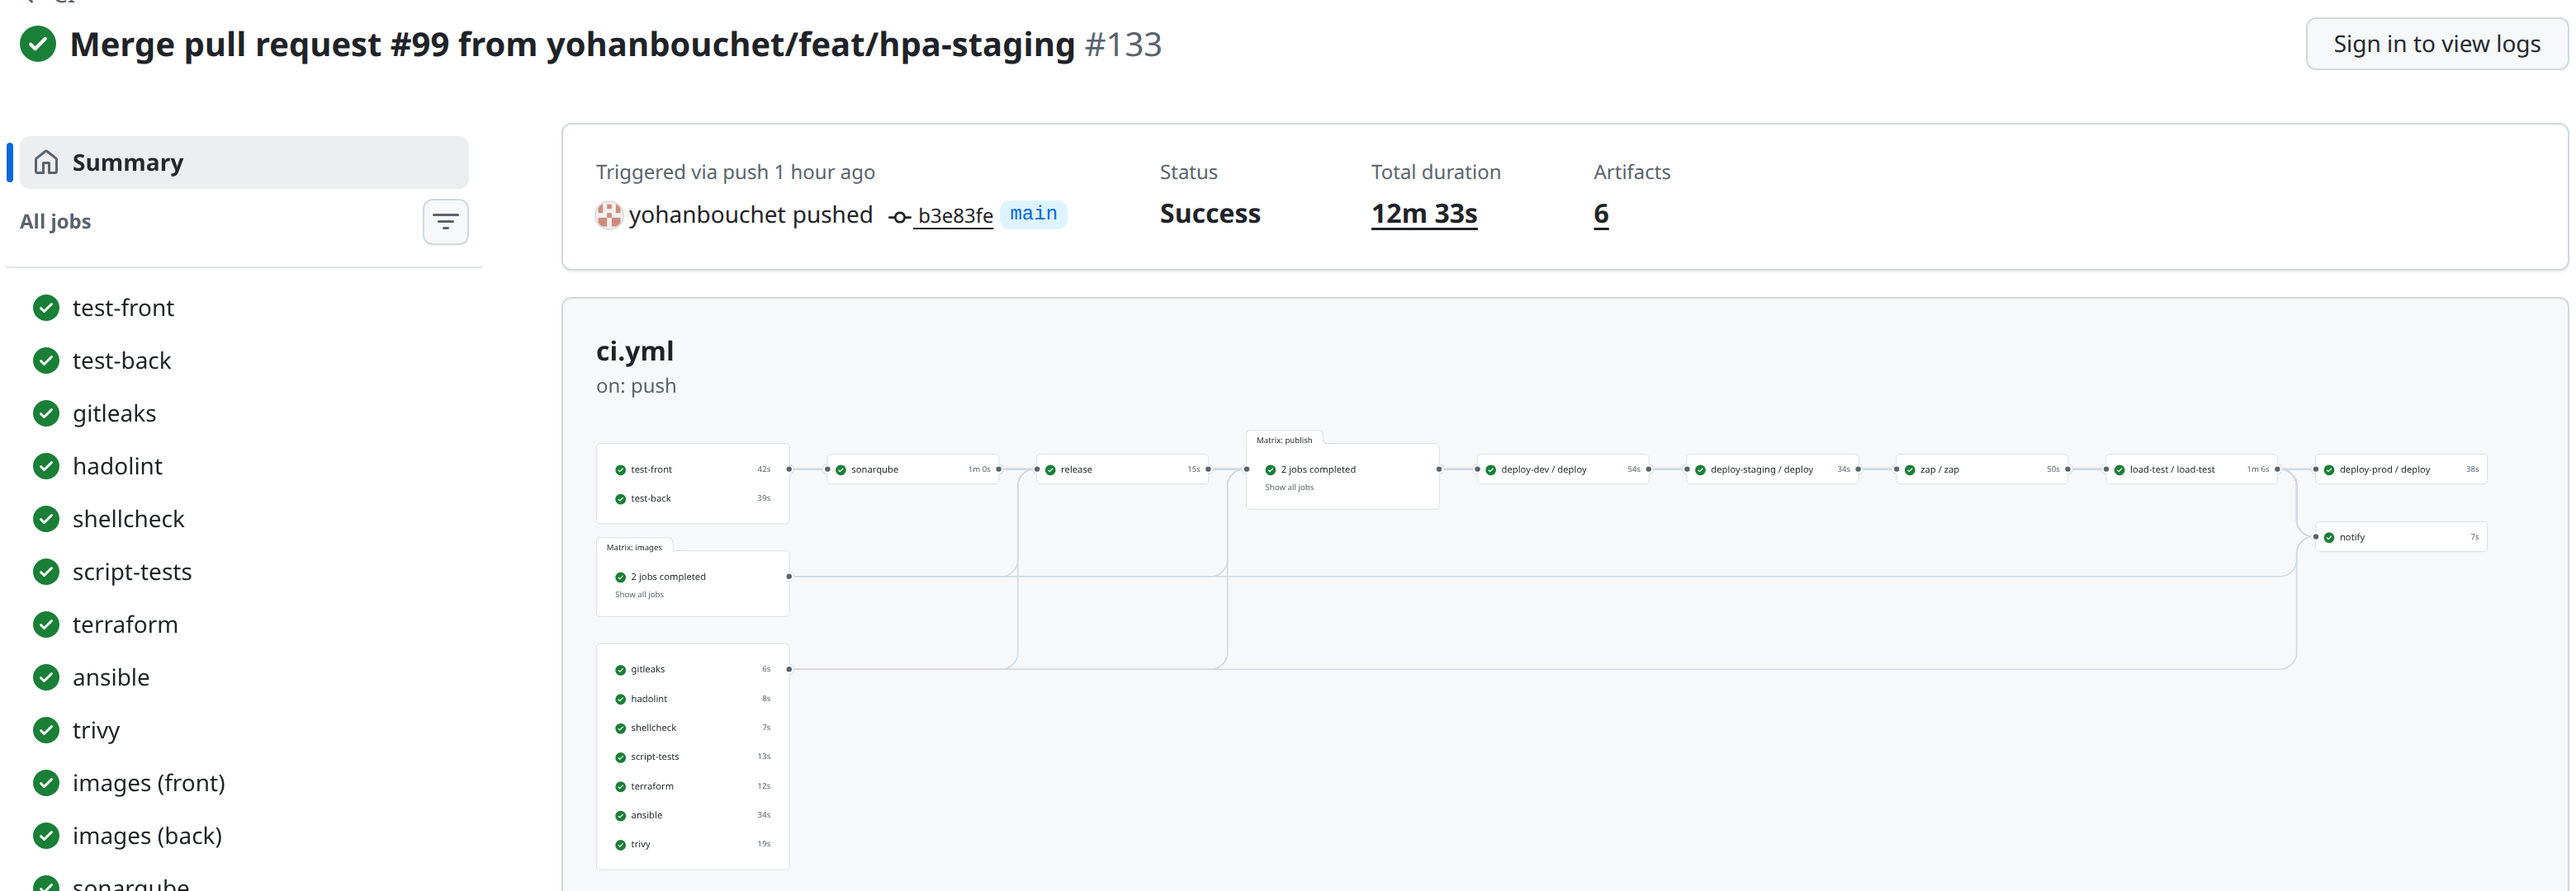
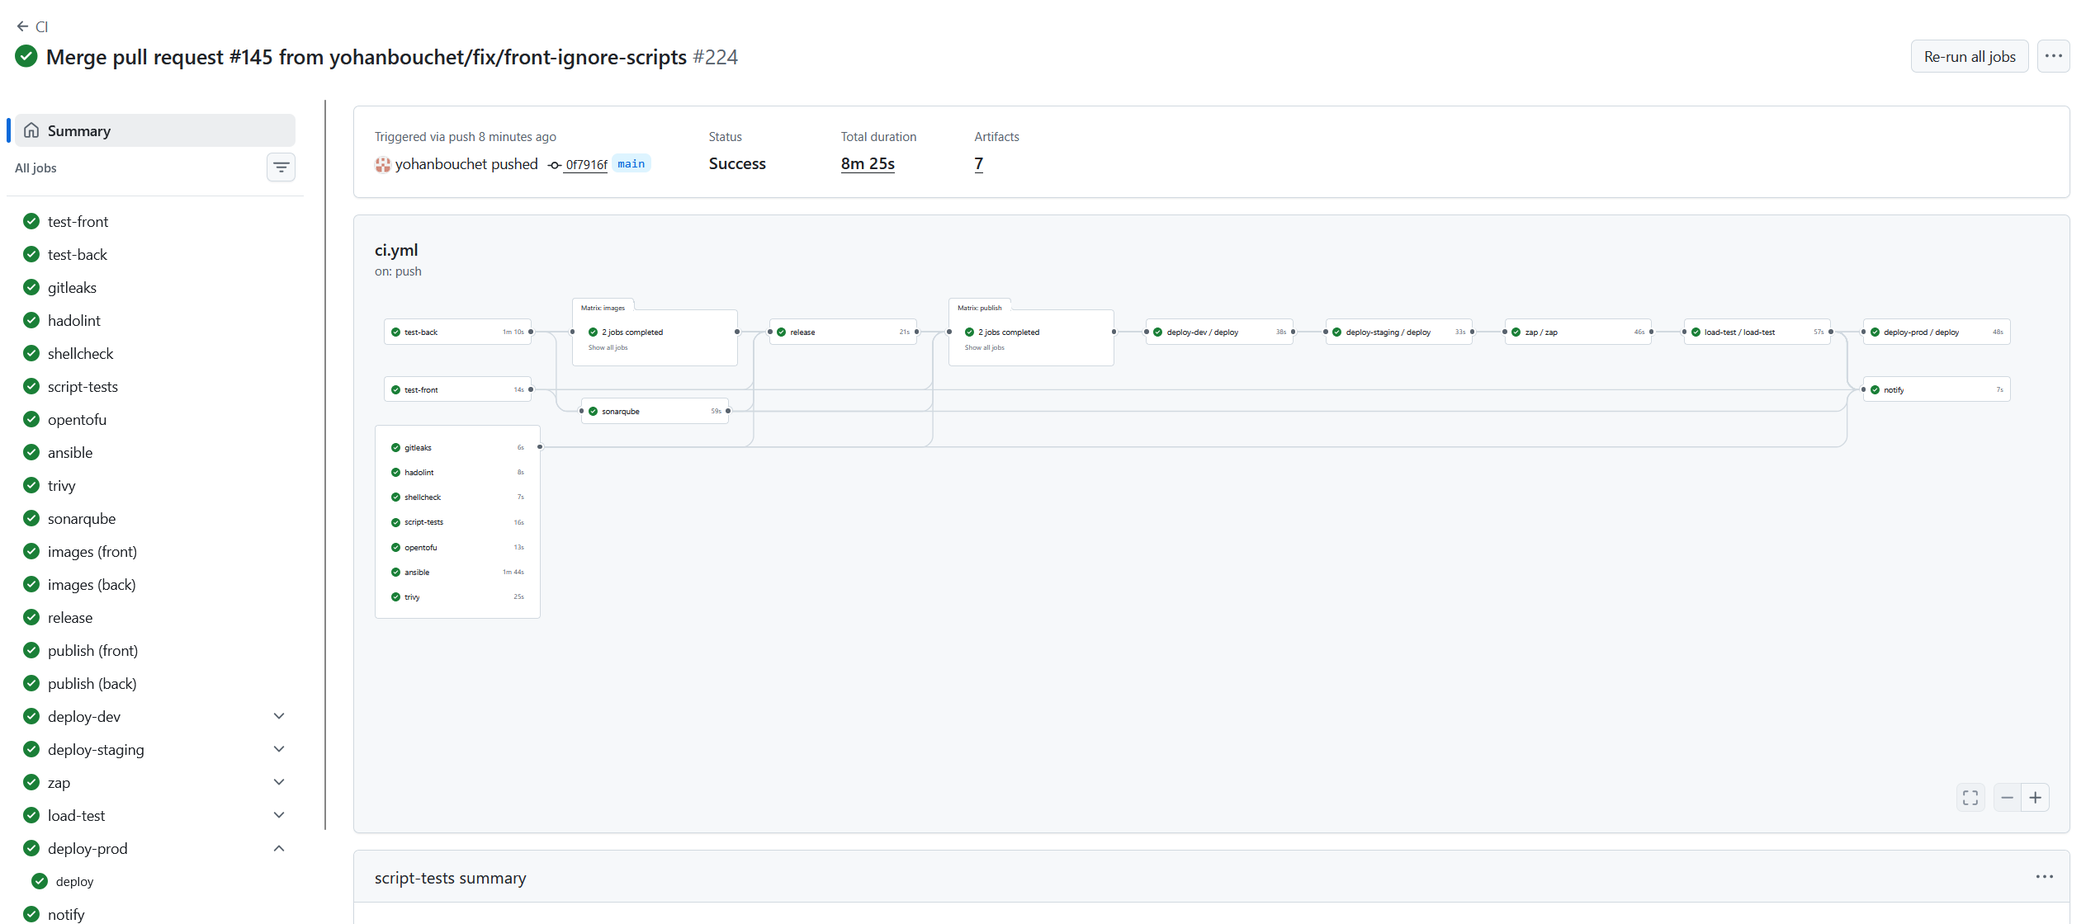
docs(rapport): pipeline de v1.9.1 et failles apparues après construction
- capture du pipeline remplacée par l'exécution complète de v1.9.1
  (11/11, première mise en prod par un accès court d'OpenBao) ; durées
  remesurées par l'API : 6,7 min automatiques, prod 0,8 min
- section 5.1 : 2 failles hautes apparues le 11/11 dans le front v1.9.0
  en prod, corrigées par v1.9.1 (0 faille, front et back)

diff --git a/docs/04-rapport-performance.md b/docs/04-rapport-performance.md
@@ -6,7 +6,7 @@
 | Client  | Orion (destinataires : Maria, CTO, et les équipes Dev et Ops) |
 | Auteur  | Yohan Bouchet |
 | Version | 1.3 (recommandations 26 à 30 ; 1.2 du 10/11, 1.1 du 09/11, 1.0 du 07/11) |
-| Date    | 11/11/2026 : état de la production au 10/11 (v1.9.0, en production depuis le 09/11) ; mesures du 06/11 au 10/11 |
+| Date    | 11/11/2026 : état de la production au 11/11 (v1.9.1, en production depuis le 11/11) ; mesures du 06/11 au 11/11 |
 
 **Accessibilité** : titres hiérarchisés, tableaux avec ligne d'en-tête,
 chaque capture d'écran munie d'un texte de remplacement qui décrit ce
@@ -24,7 +24,7 @@ elle-même.
 
 | Ce qui compte pour Orion | Avant (27-28/10) | Après (06-10/11) |
 | --- | --- | --- |
-| Failles connues dans les images livrées | 95 dans l'image back, dont 8 critiques | **0**, toutes gravités confondues (v1.9.0) |
+| Failles connues dans les images livrées | 95 dans l'image back, dont 8 critiques | **0**, toutes gravités confondues (v1.9.1, analysée le 11/11 ; voir 5.1) |
 | Contrôles automatiques sur chaque modification | 4 tâches (tests et construction), rien de bloquant sur la qualité ou la sécurité | **12** (tests, qualité, failles, secrets, infrastructure) |
 | Couverture du code par les tests | non mesurée | **82,9 %**, mesurée à chaque modification |
 | Compte utilisé par l'API dans la base | superutilisateur | **compte limité** à la lecture et à l'écriture des lignes |
@@ -169,18 +169,19 @@ production (workflow *DORA metrics*).
 | --- | --- | --- |
 | Contrôles sur chaque PR | 4 tâches : tests et construction | **12 tâches en parallèle** : tests back et front, SonarQube, Trivy, hadolint, ShellCheck, gitleaks, tests des scripts, OpenTofu (2 dossiers), Ansible (dont Molecule depuis le 10/11), construction des 2 images |
 | Durée | 4,67 min | **2,2 min** (médiane de 47 PR réussies du 07 au 10/11 ; 1,9 min le 06/11) ; avec Molecule (10/11), 2,0 et 2,4 min sur les 2 premières PR : le job Ansible (1,8 à 1,9 min) est devenu le plus long |
-| Ce qui se passe après la fusion | rien | version, publication des images, déploiement dev puis staging, test d'intrusion ZAP, test de fumée k6, notification : **6,6 min** (exécution du 06/11, 17:01), puis production en 0,6 min après approbation |
+| Ce qui se passe après la fusion | rien | version, publication des images, déploiement dev puis staging, test d'intrusion ZAP, test de fumée k6, notification : **6,7 min** (v1.9.1, 11/11 ; 6,6 min le 06/11), puis production en 0,8 min après approbation, par un accès court d'OpenBao |
 
 La durée totale affichée par GitHub sur la capture ci-dessous
-(12 min 33 s) comprend l'attente de l'approbation humaine avant la
-production : les étapes automatiques, elles, durent 6,6 min puis 0,6 min.
+(8 min 25 s, version v1.9.1 du 11/11) comprend 0,8 min d'attente de
+l'approbation humaine avant la production : les étapes automatiques,
+elles, durent 6,7 min puis 0,8 min.
 
 **Précaution de lecture** : la mesure « avant » a été faite sur un poste,
 cache vide ; la mesure « après » vient des runners de la CI, avec cache.
 Le gain s'explique surtout par l'exécution en parallèle et le cache : la
 chaîne contrôle **3 fois plus de choses en 2 fois moins de temps**.
 
-![Graphe d'une exécution du pipeline sur main : contrôles en parallèle, puis release, publication, déploiements dev et staging, ZAP, test de charge et production](rapport-performance/pipeline.png)
+![Graphe de l'exécution du pipeline sur main qui a livré v1.9.1 le 11/11, toutes les étapes réussies en 8 min 25 s : 9 contrôles en parallèle, construction des 2 images, SonarQube, release, publication des 2 images, déploiements dev et staging, ZAP, test de charge, production après approbation, notification](rapport-performance/pipeline.png)
 
 ### 3.3 Releases
 
@@ -263,10 +264,10 @@ SonarQube, analyse du Java moins précise) est levée depuis le 08/11
 
 ### 5.1 Gains
 
-| Source | Avant (27-28/10) | Après (08-10/11) |
+| Source | Avant (27-28/10) | Après (08-11/11) |
 | --- | --- | --- |
 | Trivy, image back | 95 failles : 8 critiques, 33 hautes | **0**, toutes gravités confondues (v1.9.0, analysée le 10/11) |
-| Trivy, image front | 10 failles : 2 hautes | **0**, toutes gravités confondues (v1.9.0, analysée le 10/11) |
+| Trivy, image front | 10 failles : 2 hautes | **0**, toutes gravités confondues (v1.9.0, analysée le 10/11 ; le 11/11, 2 hautes publiées depuis dans libxslt, corrigées par v1.9.1, 0 faille) |
 | npm audit, toutes les dépendances du front | 91 : 5 critiques, 52 hautes | **0** (56 le 07/11) |
 | npm audit, dépendances livrées au navigateur | non distingué | **0** (8 le 07/11, dont 4 hautes) |
 | Failles acceptées par exception (`.trivyignore`) | aucun contrôle | **0** (42 le 07/11 : Angular 17 et l'outil de publication des versions) |
@@ -281,6 +282,14 @@ Angular 22 (08/11, PR #114) a supprimé toutes les failles de
 `npm audit`, y compris dans les outils de construction, et une version
 corrigée de l'outil de publication a permis de retirer les 42 exceptions
 de `.trivyignore`.
+
+**Une image saine ne le reste pas** : le 11/11, l'image du front en
+production (v1.9.0, 0 faille le 10/11) avait 2 failles hautes dans
+libxslt, publiées et corrigées par Alpine entre-temps. Un scan fait à
+la main l'a montré ; la version v1.9.1, reconstruite le jour même,
+est en production avec 0 faille (front et back). Rien ne l'aurait
+signalé automatiquement : Trivy n'analyse une image qu'à sa
+construction (recommandation 30).
 
 **Moindre privilège dans la base** (08/11, PR #115) : l'API ne se
 connecte plus avec le superutilisateur créé par l'image officielle, mais
@@ -761,7 +770,7 @@ ces changements (la dernière, v1.9.0, date du 09/11 à 17:32).
 
 | Domaine | Indicateur | Avant | Après | Détail |
 | --- | --- | --- | --- | --- |
-| Sécurité | Failles critiques et hautes dans les images livrées | 95 (back, dont 8 critiques) et 10 (front) | **0 et 0**, aucune faille d'aucune gravité (v1.9.0) | 5.1 |
+| Sécurité | Failles critiques et hautes dans les images livrées | 95 (back, dont 8 critiques) et 10 (front) | **0 et 0**, aucune faille d'aucune gravité (v1.9.1, 11/11) | 5.1 |
 | Sécurité | En-têtes de sécurité vérifiés par le test d'intrusion | 3 règles en échec, aucun test | **0 échec** ; 19 règles bloquantes : un échec bloque la prod | 5.1 |
 | Sécurité | Secrets dans le dépôt | non contrôlés | contrôlés à chaque PR, aucun trouvé | 5.1 |
 | Sécurité | Compte utilisé par l'API dans la base | superutilisateur | **compte limité** à la lecture et à l'écriture des lignes ; refus testés | 5.1 |
@@ -804,8 +813,9 @@ ces changements (la dernière, v1.9.0, date du 09/11 à 17:32).
   à 2,5 h quand des PR ont réuni 6 à 13 commits, puis à 2,9 h (3.1).
 - **Une seule étape est manuelle : l'approbation de la prod.** Elle est
   voulue (contrôle humain avant les clients), mais elle allonge le délai
-  réel : environ 5 min d'attente sur l'exécution de la section 3.2
-  (12 min 33 s au total, dont 7,2 min d'étapes automatiques).
+  réel : 0,8 min d'attente sur l'exécution de la section 3.2 (8 min
+  25 s au total, dont 7,5 min d'étapes automatiques), environ 5 min le
+  06/11.
 - **Seules les versions numérotées vont en prod.** Une modification de
   documentation, de CI ou d'infrastructure ne crée pas de version : elle
   s'arrête au staging. La prod ne reçoit donc que des changements tracés
@@ -931,9 +941,9 @@ et détecterait les modifications faites hors du dépôt.
 | --- | --- | --- |
 | Mesures de départ | [docs/mesures-avant/](mesures-avant/README.md) | 27-28/10/2026 |
 | DORA | `scripts/dora.py` sur l'API GitHub (déploiements de l'environnement production ; script corrigé le 10/11) ; délais par version recalculés avec git et l'historique Helm de la prod | 06/11/2026, 09/11/2026, 10/11/2026 |
-| Pipeline | API GitHub Actions : exécutions réussies du workflow CI sur les PR, durée de chaque job | 06/11/2026, 10/11/2026 |
+| Pipeline | API GitHub Actions : exécutions réussies du workflow CI sur les PR, durée de chaque job ; exécution complète de v1.9.1 jusqu'à la prod | 06/11/2026, 10/11/2026, 11/11/2026 |
 | Qualité, couverture | API SonarQube, projet `orion` | 06/11/2026, 08/11/2026 |
-| Failles des images | Trivy (version de la CI) sur les images publiées : 0.76.1 sur v1.5.2, 0.76.2 sur v1.8.0 et v1.9.0 | 07/11/2026, 08/11/2026, 10/11/2026 |
+| Failles des images | Trivy (version de la CI) sur les images publiées : 0.76.1 sur v1.5.2, 0.76.2 sur v1.8.0, v1.9.0 et v1.9.1 | 07/11/2026, 08/11/2026, 10/11/2026, 11/11/2026 |
 | Tests | bashunit 0.52.0 (dans un conteneur) et pytest ; `tofu test` ; Molecule (CI de la PR #141) | 10/11/2026 |
 | Dépendances du front | `npm audit`, avec et sans les outils de développement | 06/11/2026, 08/11/2026 |
 | Charge | k6 2.3.0 dans staging ; métriques VictoriaMetrics ; compteurs TCP des pods | 06/11/2026 |

diff --git a/docs/03-documentation-ci-cd.md b/docs/03-documentation-ci-cd.md
@@ -873,8 +873,8 @@ Rollouts dans la cible cloud.
    release ; ticket et e-mail si une étape échoue.
 
 Durées mesurées : contrôles d'une PR 2,2 min (médiane du 07 au
-10/11) ; de la fusion à `staging` testé 6,6 min ; production 0,6 min
-après l'approbation.
+10/11) ; de la fusion à `staging` testé 6,7 min ; production 0,8 min
+après l'approbation (v1.9.1, 11/11).
 
 ### 7.3 Système de versioning
 
